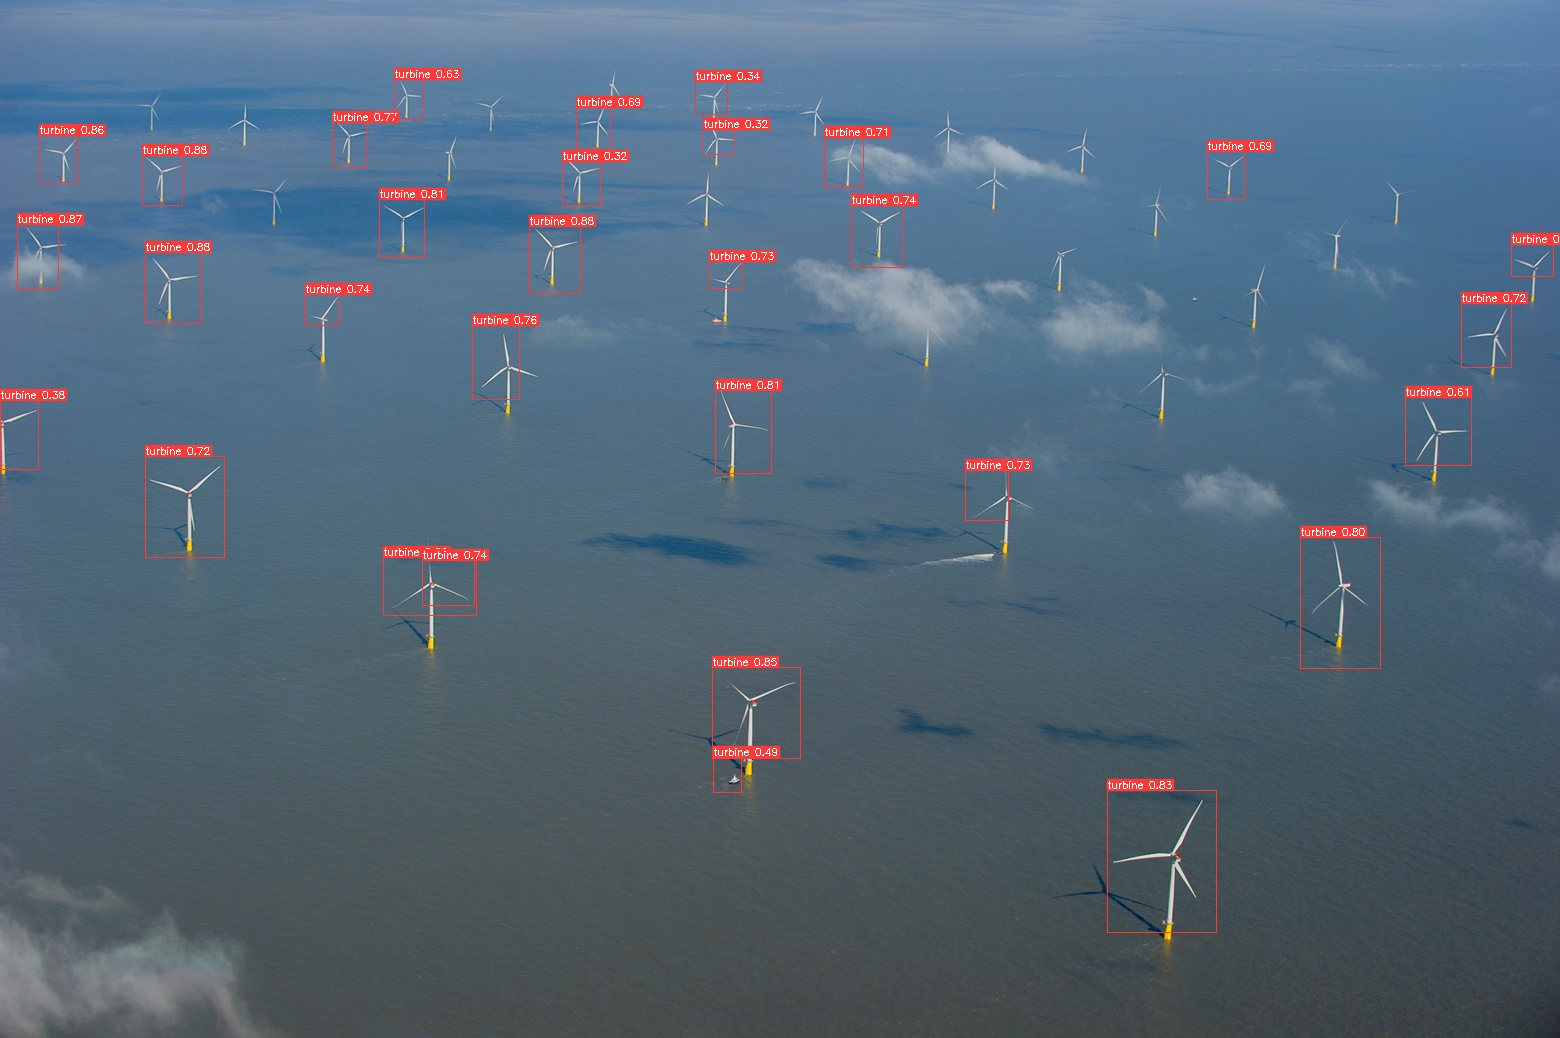
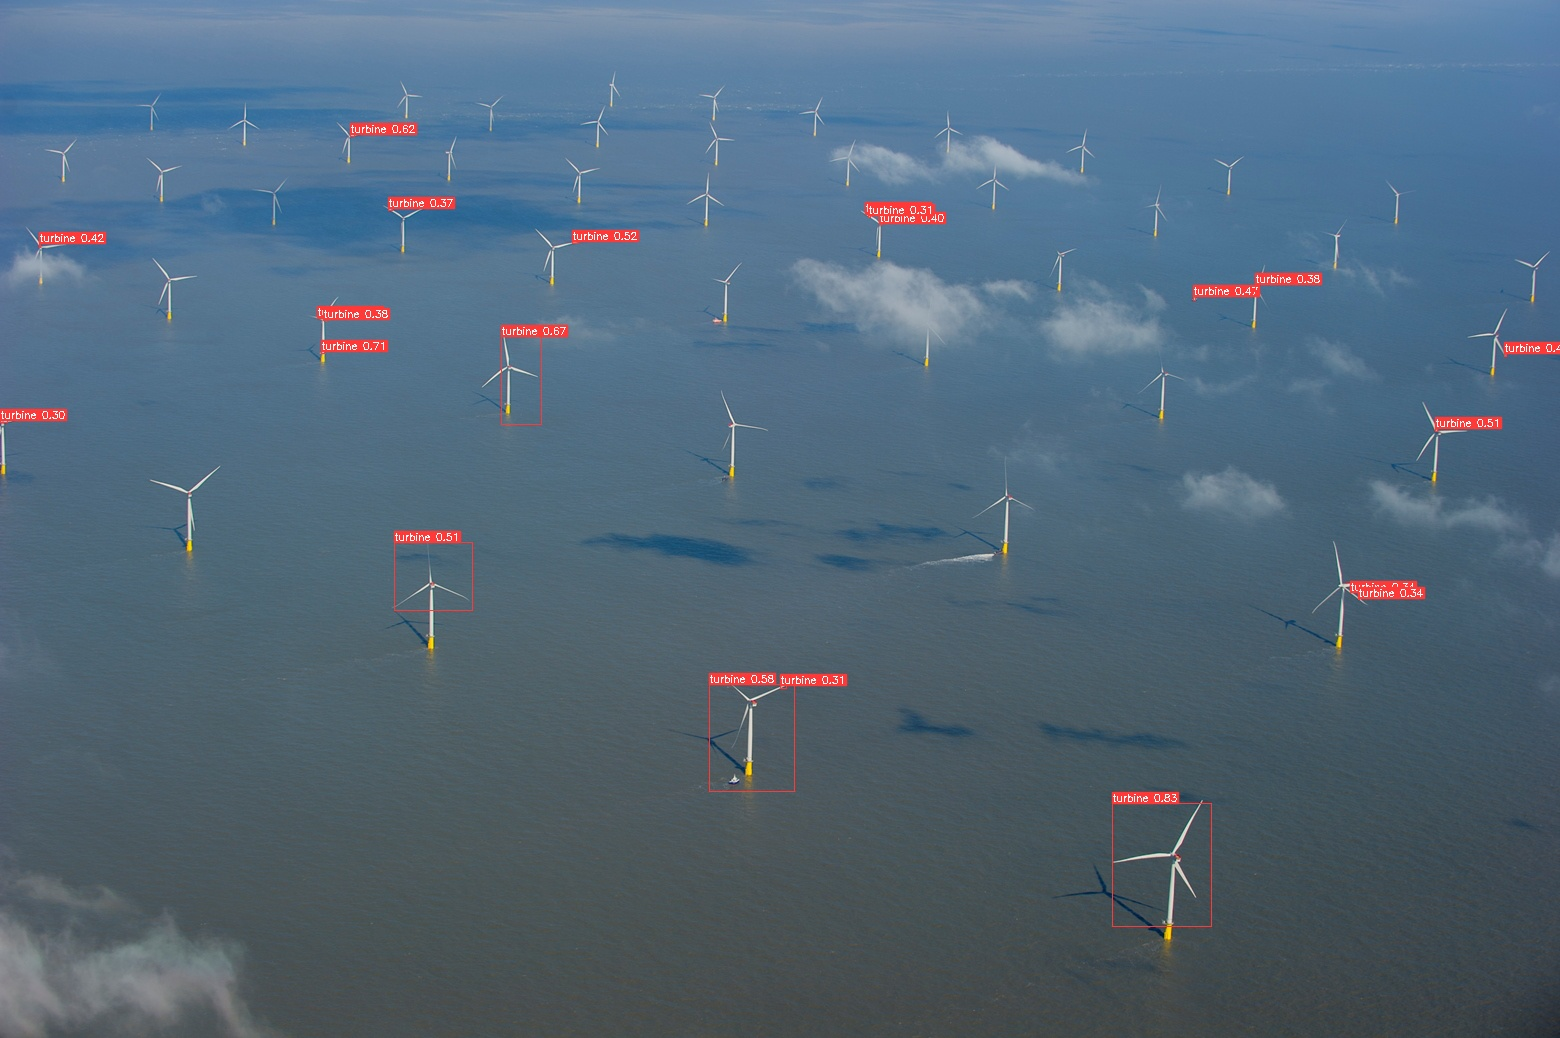
imgs added

diff --git a/README.md b/README.md
@@ -1,47 +1,47 @@
 
-# Printed Circuit Board Defect Detection
+# Aerial Wind Turbine Detection - YOLOV5 with Slicing Aided Hyper Inference (SAHI)
 
-![alt text](https://github.com/sudheeshe/PCB_Defect_Detection_Training/blob/main/imgs_readme/3.jpg?raw=true)
+![alt text](https://github.com/sudheeshe/Turbine_Detection_YOLO_SAHI/blob/main/readme_imgs/1.jpg?raw=true)
 
-### What is PCB ...??
+### Why Oject Detection is difficult in small objects ...??
 
-- `Printed circuit boards (PCBs)` are the foundational building block of most modern electronic devices.  
-- Whether simple single layered boards used in your garage door opener, to the six layer board in your smart watch, to a 60 layer, very high density and high-speed circuit boards used in super computers and servers, printed circuit boards are the foundation on which all of the other electronic components are assembled onto.
+- These datasets generally consist of low-resolution photos (640 480 pixels) with huge objects and high pixel coverage (on average, 60 percent of the image height). 
+- While the trained models perform well on those sorts of input data, they exhibit much poorer accuracy on small item detection tasks in high-resolution photos captured by high-end drones and surveillance cameras.
+- Small object detection is thus a difficult task in computer vision because, in addition to the small representations of objects, the diversity of input images makes the task more difficult. 
+- For example, an image can have different resolutions; if the resolution is low, the detector may have difficulty detecting small objects.
 
-![alt text](https://github.com/sudheeshe/PCB_Defect_Detection_Training/blob/main/imgs_readme/1.jpg?raw=true)
 
 - Compared to traditional wired circuits, PCBs offer a number of advantages. Their small and lightweight design is appropriate for use in many modern devices, while their reliability and ease of maintenance suit them for integration in complex systems. 
 - Additionally, their low cost of production makes them a highly cost-effective option.
 
 ## Business Scenario
 
-- The Client is looking for an Effective PCB defects detection System which detect the following defects.
+- The Client is looking for an Effective Wind Turbine detection System on aerial images taken from drones.
 
-        1. missing_hole
-        2. mouse_bite
-        3. open_circuit
-        4. short
-        5. spur
-        6. spurious_copper
+## Challenges
+- Pixel size of wind turbines are very small when comparing the size image.
+- Limited resource.
 
 
 ## Data Understanding
 
-- The available dataset have total 485 images for Training.
-- 139 images for Validation and 69 images are provided for testing
-- On an average 90 images per 6 defect class.
+- The available dataset have total 1266 images for Training.
+- 139 images for Validation and 319 images are provided for validation and testing
+- I have used Imgae augmantation techique using roboflow and created 4261 images for training by applying below augmentations
+
+![alt text](https://github.com/sudheeshe/Turbine_Detection_YOLO_SAHI/blob/main/readme_imgs/2.jpg?raw=true)
 
 
 Let's see some sample from training data
 
-![alt text](https://github.com/sudheeshe/PCB_Defect_Detection_Training/blob/main/imgs_readme/4.jpg?raw=true)
+![alt text](https://github.com/sudheeshe/Turbine_Detection_YOLO_SAHI/blob/main/readme_imgs/3.jpg?raw=true)
 
 
 ## Data Labeling
 
 - Labeling was done with `LabelImg` tool and labels are saved on `.txt` format
 
-![alt text](https://github.com/sudheeshe/PCB_Defect_Detection_Training/blob/main/imgs_readme/5.jpg?raw=true)
+![alt text](https://github.com/sudheeshe/Turbine_Detection_YOLO_SAHI/blob/main/readme_imgs/4.jpg?raw=true)
 
 
 ## Model Building and Evaluation
